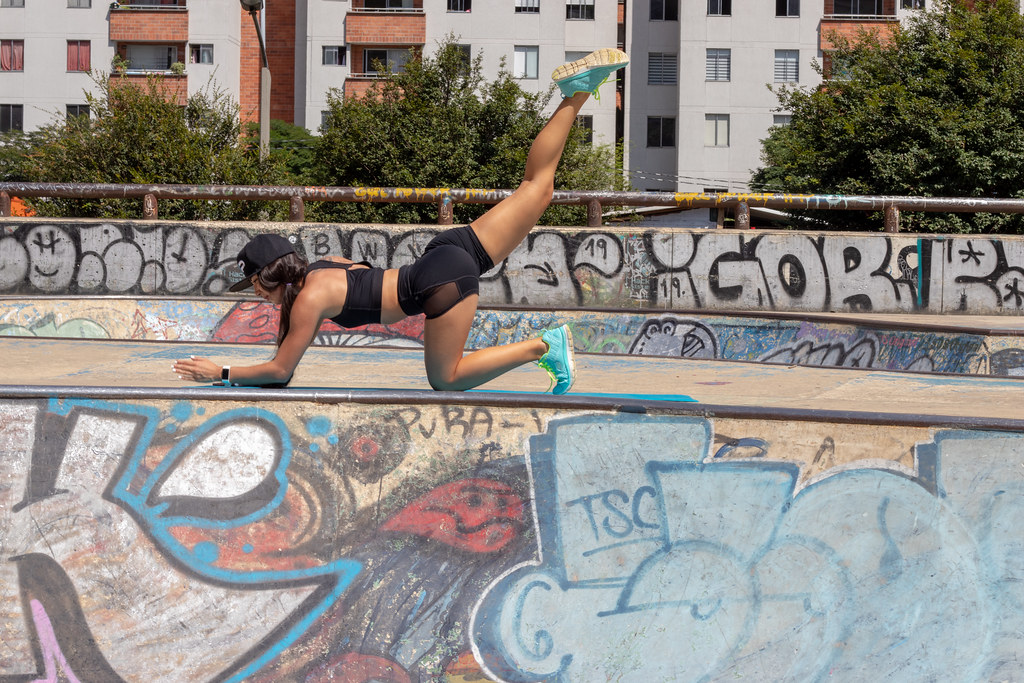
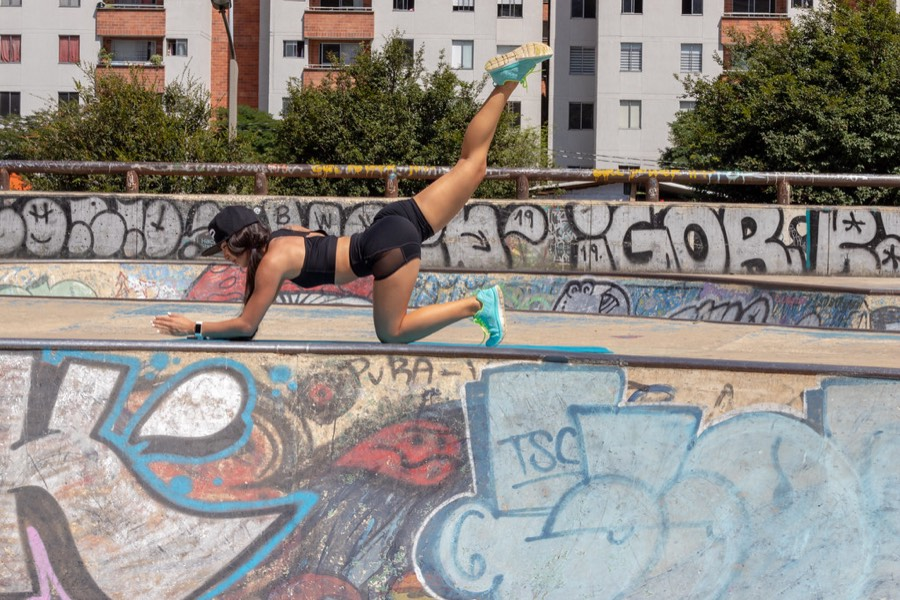
As 4 imagens restantes do Wikimedia (agachamento, ombro, puxada, rosca)
Baixadas na 2a tentativa (rate-limit resetou), redimensionadas p/ web (~60-90KB).
Agora 10/10 exercícios mapeáveis com foto feminina. sw v16->v17.

diff --git a/index.html b/index.html
@@ -1718,7 +1718,7 @@ const MG_PRIORITY = {gluteo:true, gluteo_med:true};
    fallback pro Free Exercise DB (yuhonas/free-exercise-db). */
 const PHOTO_LOCAL = {
   // dela — imagens femininas de bancos livres (CC0/CC-BY/CC-BY-SA · ver CREDITS.md)
-  "Agachamento livre ou Leg press 45°":"ela-legpress.jpg",
+  "Agachamento livre ou Leg press 45°":"ela-agachamento.jpg",
   "Hack machine ou Leg press":"ela-legpress.jpg",
   "Afundo/passada com halteres":"ela-afundo.jpg",
   "Afundo andando com halteres":"ela-afundo.jpg",
@@ -1730,6 +1730,11 @@ const PHOTO_LOCAL = {
   "Remada na polia/máquina (acessório costas)":"ela-remada.jpg",
   "Remada com halteres (acessório)":"ela-remada.jpg",
   "Supino máquina ou halter (acessório superior)":"ela-supino.jpg",
+  "Desenvolvimento de ombro (acessório superior)":"ela-desenvolvimento.jpg",
+  "Desenvolvimento de ombro com halteres (acessório)":"ela-desenvolvimento.jpg",
+  "Puxada na polia (acessório superior/costas)":"ela-puxada.jpg",
+  "Rosca direta (acessório superior)":"ela-rosca.jpg",
+  "Rosca com halteres (acessório)":"ela-rosca.jpg",
 };
 const PHOTO_ID = {
   /* ====== ATIVOS (WK A/B/C/D) ====== */

diff --git a/sw.js b/sw.js
@@ -3,7 +3,7 @@
    - app shell (index, manifest, ícones): cache-first com refresh em background
    - fotos do Free Exercise DB: cache-first, persistente (sobrevive a updates)
 */
-const SHELL = 'treino-shell-v16';
+const SHELL = 'treino-shell-v17';
 const PHOTOS = 'treino-photos-v1';
 
 const SHELL_FILES = [